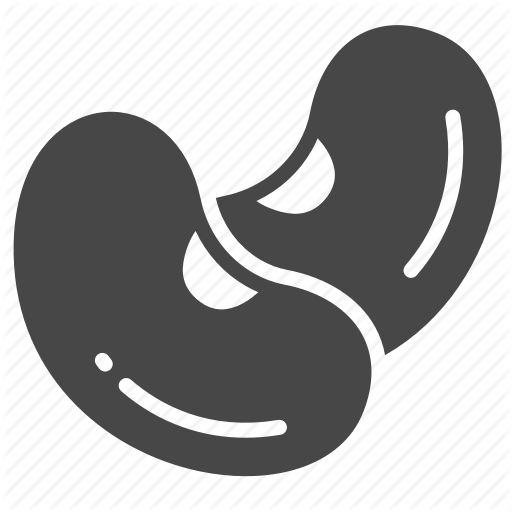
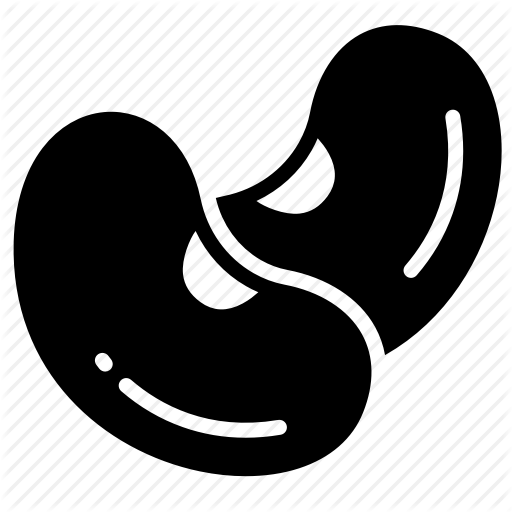
replaced li elements with div and removed ul tags. Added pictures.

diff --git a/menyer/beancrush/index.html b/menyer/beancrush/index.html
@@ -10,10 +10,9 @@
     <header>
         <div id="header_label">
             <h1>B E A N C R U S H</h1>
-            <h3 id="header_quote"><i>Yeet the beans!</i></h3>
         </div>
         <div id="header_image">
-            <img src="" alt="Beancrush logo">
+            <img src="img_beans.png" alt="Beancrush logo" width="64">
         </div>
     </header>
     <section id="section_01_lunchoffers">
@@ -22,24 +21,22 @@
             <h3>Between 11 AM-3 PM</h3>
         </div>
         <div id="lunchoffers_list">
-            <ul>
-                <li class="food_item">
-                    <h4>Crispy K Burger Meal</h4>
-                    <p>Two crispy kidney bean patties, pickled onions, coleslaw, homemade BBQ sauce, topped with thinly sliced tomatoes and lettuce in a fluffy potato burger bun. Served with sweet potato fries and a dipping sauce of your choosing.</p>
-                </li>
-                <li class="food_item">
-                    <h4>Chickpea Slam Dunk</h4>
-                    <p>Four chickpea cakes, quinoa and a salad of roasted carrots, green beans and white cabbage. Served with a cold oat-based yoghurt sauce, beetroot hummus, and freshly baked flatbread.</p>
-                </li>
-                <li class="food_item">
-                    <h4>Funky Wizard's Risotto</h4>
-                    <p>A warm, creamy risotto with mushrooms, grilled tofu, garlic, red onion, aubergine and thyme. Served with two slices of freshly baked sourdough bread and butter.</p>
-                </li>
-                <li class="food_item">
-                    <h4>Slightly Angry Sweet Potato Soup</h4>
-                    <p>Spicy, thick sweet potato soup with ginger, chili and lime. Served with a small side salad of black beans and cherry tomatoes. Cilantro topping encouraged, but not mandatory.</p>
-                </li>
-            </ul>
+            <div class="food_item_1">
+                <h4>Crispy K Burger Meal</h4>
+                <p>Two crispy kidney bean patties, pickled onions, coleslaw, homemade BBQ sauce, topped with thinly sliced tomatoes and lettuce in a fluffy potato burger bun. Served with sweet potato fries and a dipping sauce of your choosing.</p>
+            </div>
+            <div class="food_item_2">
+                <h4>Chickpea Slam Dunk</h4>
+                <p>Four chickpea cakes, quinoa and a salad of roasted carrots, green beans and white cabbage. Served with a cold oat-based yoghurt sauce, beetroot hummus, and freshly baked flatbread.</p>
+            </div>
+            <div class="food_item_1">
+                <h4>Funky Wizard's Risotto</h4>
+                <p>A warm, creamy risotto with mushrooms, grilled tofu, garlic, red onion, aubergine and thyme. Served with two slices of freshly baked sourdough bread and butter.</p>
+            </div>
+            <div class="food_item_2">
+                <h4>Slightly Angry Sweet Potato Soup</h4>
+                <p>Spicy, thick sweet potato soup with ginger, chili and lime. Served with a small side salad of black beans and cherry tomatoes. Cilantro topping encouraged, but not mandatory.</p>
+            </div>
         </div>
     </section>
     <section id="section_02_burgers">
@@ -48,24 +45,22 @@
             <h3>Fries/Sweet Potato Fries/Side Salad included!</h3>
         </div>
         <div id="burgers_list">
-            <ul>
-                <li class="food_item">
-                    <h4>Vegan Classic</h4>
-                    <p>Plant-based beef, peacon and smoky vegan cheese, white onion, tomatoes, lettuce, BBQ sauce and our homemade black pepper ketchup!</p>
-                </li>
-                <li class="food_item">
-                    <h4>The Flannel Druid</h4>
-                    <p>Mushroom patty, dill pickles, red onion, coleslaw and our top secret burger sauce, served in a whole-grain bun.</p>
-                </li>
-                <li class="food_item">
-                    <h4>The Even Funkier Wizard</h4>
-                    <p>Black bean patty, mushroom stew, caramelized onions, green pepper sauce and some weird uncategorized leaves that are probably a bit cursed, but they taste great.</p>
-                </li>
-                <li class="food_item">
-                    <h4>Paradise Island Jester</h4>
-                    <p>Plant-based beef, marinara sauce, pineapple, vegan cheddar cheese and pea-based ham. The world's most divisive pizza in burger-form.</p>
-                </li>
-            </ul>
+            <div class="food_item_1">
+                <h4>Vegan Classic</h4>
+                <p>Plant-based beef, peacon and smoky vegan cheese, white onion, tomatoes, lettuce, BBQ sauce and our homemade black pepper ketchup!</p>
+            </div>
+            <div class="food_item_2">
+                <h4>The Flannel Druid</h4>
+                <p>Mushroom patty, dill pickles, red onion, coleslaw and our top secret burger sauce, served in a whole-grain bun.</p>
+            </div>
+            <div class="food_item_1">
+                <h4>The Even Funkier Wizard</h4>
+                <p>Black bean patty, mushroom stew, caramelized onions, green pepper sauce and some weird uncategorized leaves that are probably a bit cursed, but they taste great.</p>
+            </div>
+            <div class="food_item_2">
+                <h4>Paradise Island Jester</h4>
+                <p>Plant-based beef, marinara sauce, pineapple, vegan cheddar cheese and pea-based ham. The world's most divisive pizza in burger-form.</p>
+            </div>
         </div>
     </section>
     <section id="section_03_warmmeals">
@@ -74,24 +69,22 @@
             <h3>Side salad included!</h3>
         </div>
         <div id="warmmeals_list">
-            <ul>
-                <li class="food_item">
-                    <h4>Weeb Spaghetti</h4>
-                    <p>Fried noodles with sweet n' spicy tofu, grilled vegetables(broccoli, bell pepper, red onion and carrots). Served with chopsticks but you can ask for a fork is you're a scrub.</p>
-                </li>
-                <li class="food_item">
-                    <h4>Actual Spaghetti</h4>
-                    <p>Spaghetti with vegan bolognese sauce and a big ol' chunk of garlic bread.</p>
-                </li>
-                <li class="food_item">
-                    <h4>Beans</h4>
-                    <p>Just straight up baked beans, served slightly warmer than lukewarm. That's it. Just beans.</p>
-                </li>
-                <li class="food_item">
-                    <h4>Chickpea Curry Combo</h4>
-                    <p>Red curry stew with chickpeas, roasted onions, ginger and coconut milk. Served with oat-based yoghurt sauce, rice and Naan bread.</p>
-                </li>
-            </ul>
+            <div class="food_item_1">
+                <h4>Weeb Spaghetti</h4>
+                <p>Fried noodles with sweet n' spicy tofu, grilled vegetables(broccoli, bell pepper, red onion and carrots). Served with chopsticks but you can ask for a fork is you're a scrub.</p>
+            </div>
+            <div class="food_item_2">
+                <h4>Actual Spaghetti</h4>
+                <p>Spaghetti with vegan bolognese sauce and a big ol' chunk of garlic bread.</p>
+            </div>
+            <div class="food_item_1">
+                <h4>Beans</h4>
+                <p>Just straight up baked beans, served slightly warmer than lukewarm. That's it. Just beans.</p>
+            </div>
+            <div class="food_item_2">
+                <h4>Chickpea Curry Combo</h4>
+                <p>Red curry stew with chickpeas, roasted onions, ginger and coconut milk. Served with oat-based yoghurt sauce, rice and Naan bread.</p>
+            </div>
         </div>
     </section>
     <section id="section_04_salads">
@@ -100,24 +93,22 @@
             <h3>Full or side portions available!</h3>
         </div>
         <div id="salads_list">
-            <ul>
-                <li class="food_item">
-                    <h4>Big Bean Treat</h4>
-                    <p>Big white beans, olives, sun-dried tomatoes, chopped red onion and various greens, with a herb-infused vinegar dressing.</p>
-                </li>
-                <li class="food_item">
-                    <h4>Ceasar But Friendly</h4>
-                    <p>Classic Ceasar salad, but with plant-based bacon and seitan strips. Also with 5% more orphan tears than a regular salad!</p>
-                </li>
-                <li class="food_item">
-                    <h4>Pasta Party</h4>
-                    <p>Corkscrew pasta with a creamy sweet chili dressing, ginger strips, ruccola, chopped cucumber and sweetcorn.</p>
-                </li>
-                <li class="food_item">
-                    <h4>Word Salad</h4>
-                    <p>Lorem ipsum dolor sit amet consectetur adipisicing elit. Rerum unde atque impedit quasi officia tempora adipisci quas ut? At, quas?</p>
-                </li>
-            </ul>
+            <div class="food_item_1">
+                <h4>Big Bean Treat</h4>
+                <p>Big white beans, olives, sun-dried tomatoes, chopped red onion and various greens, with a herb-infused vinegar dressing.</p>
+            </div>
+            <div class="food_item_2">
+                <h4>Ceasar But Friendly</h4>
+                <p>Classic Ceasar salad, but with plant-based bacon and seitan strips. Also with 5% more orphan tears than a regular salad!</p>
+            </div>
+            <div class="food_item_1">
+                <h4>Pasta Party</h4>
+                <p>Corkscrew pasta with a creamy sweet chili dressing, ginger strips, ruccola, chopped cucumber and sweetcorn.</p>
+            </div>
+            <div class="food_item_2">
+                <h4>Word Salad</h4>
+                <p>Lorem ipsum dolor sit amet consectetur adipisicing elit. Rerum unde atque impedit quasi officia tempora adipisci quas ut? At, quas?</p>
+            </div>
         </div>
     </section>
     <section id="section_05_drinks">
@@ -126,24 +117,22 @@
             <h3>Refill for 1$!</h3>
         </div>
         <div id="drinks_list">
-            <ul>
-                <li class="drink_item">
-                    <h4>Soda</h4>
-                    <p>Cold, sweet, bubbly. No surprises there!</p>
-                </li>
-                <li class="drink_item">
-                    <h4>Coffee</h4>
-                    <p>Milk and sugar available.</p>
-                </li>
-                <li class="drink_item">
-                    <h4>Bean Juice</h4>
-                    <p>Why</p>
-                </li>
-                <li class="drink_item">
-                    <h4>Larry's Mystery Brew</h4>
-                    <p>When you order this drink, we ask our intern, Larry, to just throw some random fruits and vegetables into a blender and serve it to you. It usually doesn't taste very good, but it's pretty funny.</p>
-                </li>
-            </ul>
+            <div class="food_item_1">
+                <h4>Soda</h4>
+                <p>Cold, sweet, bubbly. No surprises there!</p>
+            </div>
+            <div class="food_item_2">
+                <h4>Coffee</h4>
+                <p>Milk and sugar available.</p>
+            </div>
+            <div class="food_item_1">
+                <h4>Bean Juice</h4>
+                <p>Why</p>
+            </div>
+            <div class="food_item_2">
+                <h4>Larry's Mystery Brew</h4>
+                <p>When you order this drink, we ask our intern, Larry, to just throw some random fruits and vegetables into a blender and serve it to you. It usually doesn't taste very good, but it's pretty funny.</p>
+            </div>
         </div>
     </section>
     <section id="section_06_desserts">
@@ -152,24 +141,22 @@
             <h3>Coffee included!</h3>
         </div>
         <div id="desserts_list">
-            <ul>
-                <li class="food_item">
-                    <h4>Cinnamon Roll</h4>
-                    <p>A fluffy, hearty cinnamon roll, served hot or cold, with or without frosting.</p>
-                </li>
-                <li class="food_item">
-                    <h4>Mudcake</h4>
-                    <p>Like chocolate cake, but more gooey! Served with whipped cream.</p>
-                </li>
-                <li class="food_item">
-                    <h4>VENGEANCE</h4>
-                    <p>THE BLOOD OF UNICORNS SHALL BLACKEN THE SEVEN SEAS</p>
-                </li>
-                <li class="food_item">
-                    <h4>Raspberry Cheesecake</h4>
-                    <p>Deliciously creamy cheesecake with a thin raspberry jelly coating on top.</p>
-                </li>
-            </ul>
+            <div class="food_item_1">
+                <h4>Cinnamon Roll</h4>
+                <p>A fluffy, hearty cinnamon roll, served hot or cold, with or without frosting.</p>
+            </div>
+            <div class="food_item_2">
+                <h4>Mudcake</h4>
+                <p>Like chocolate cake, but more gooey! Served with whipped cream.</p>
+            </div>
+            <div class="food_item_1">
+                <h4>VENGEANCE</h4>
+                <p>THE BLOOD OF UNICORNS SHALL BLACKEN THE SEVEN SEAS</p>
+            </div>
+            <div class="food_item_2">
+                <h4>Raspberry Cheesecake</h4>
+                <p>Deliciously creamy cheesecake with a thin raspberry jelly coating on top.</p>
+            </div>
         </div>
     </section>
     <footer>

diff --git a/menyer/beancrush/beancrush_style.css b/menyer/beancrush/beancrush_style.css
@@ -1,43 +1,88 @@
 @import url('https://fonts.googleapis.com/css2?family=Concert+One&display=swap');
 @import url('https://fonts.googleapis.com/css2?family=Nova+Round&display=swap');
 @import url('https://fonts.googleapis.com/css2?family=Bungee+Shade&display=swap');
+@import url('https://fonts.googleapis.com/css2?family=Codystar&display=swap');
 
 :root {
-    --background-color: rgb(223, 202, 159);
-    --color-01-dark: rgb(41, 115, 115);
-    --color-01-bright: rgb(160, 238, 192);
-    --color-02-dark: rgb(116, 66, 83);
-    --color-02-bright: rgb(240, 128, 128);
+    --custom-darkgray: rgba(112, 112, 112, 0.534);
+    --custom-lightgray: rgba(165, 165, 165, 0.534);
+    --custom-black: rgb(68, 69, 69);
+    --custom-white: rgb(231, 227, 219);
+    --custom-pink-light: rgb(236, 136, 206); 
+    --custom-pink-dark: rgb(195, 50, 152);
+    --custom-blue-light: rgb(185, 227, 240);
+    --custom-blue-dark: rgb(96, 199, 225);
+
+}
+
+#header_image {
+    width: 64px;
+    height: 64px;
+    margin: auto;
+}
+
+body {
+    background-image: url("img_background_concrete.jpg");
 }
 
 section {
-    background-color: var(--background-color);
-    border: 8px double var(--color-02-bright);
+    background-image: url("img_background_scales.jpg");
+    border: 2px solid var(--custom-pink-light);
     border-radius: 6px;
-    box-shadow: 4px 4px 0 var(--color-02-dark);
+    box-shadow: 0 0 12px var(--custom-pink-dark);
     margin: 25px 150px;
 }
 
 h1 {
-    font-family: "Bungee Shade";
+    font-family: "Codystar";
+    font-size: 70px;
     text-align: center;
+    color: var(--custom-blue-light);
+    text-shadow: 0 0 6px var(--custom-blue-dark);
+    border: 2px solid var(--custom-pink-light);
+    box-shadow: 0 0 12px var(--custom-pink-dark);
+    border-radius: 12px;
+    width: 700px;
+    margin: auto;
+    margin-top: 50px;
+    margin-bottom: 25px;
 }
 
 h2, h3 {
     font-family: "Nova Round";
+    color: var(--custom-white);
+    text-align: center;
+    margin-bottom: 4px;
+    margin-top: 6px;
 }
 
 h4, p {
-    color: var(--color-02-dark);
+    color: var(--custom-white);
     font-family: "Concert One";
+    margin: 4px;
+    text-shadow: 1px 1px 1px var(--custom-black);
 }
 
-.food_item {
-    width: 500px;
-    height: 250px;
-    display: inline-block;
-    margin: 20px;
-    border: 2px dashed var(--color-02-dark);
+p {
+    width: 1000px;
+}
+
+.food_item_1, .food_item_2 {
+    height: 42px;
+    margin: 10px;
+    padding-top: 2px;
+    padding-left: 12px;
+    padding-right: 12px;
+    border: 2px dotted var(--custom-blue-light);
     border-radius: 12px;
     padding: 25px;
+    box-shadow: 0 0 8px var(--custom-blue-dark);
+}
+
+.food_item_1 {
+    background-color: var(--custom-darkgray);
+}
+
+.food_item_2 {
+    background-color: var(--custom-lightgray);
 }
